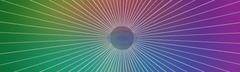
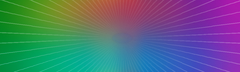
Refine SS badge rays and saturation

diff --git a/app/style.css b/app/style.css
@@ -1499,8 +1499,8 @@ button.ghost {
   text-shadow: 0 1px 1px rgba(0, 0, 0, 0.25);
   background-color: #5d2cc0;
   background-image:
-    linear-gradient(180deg, rgba(255, 255, 255, 0.34) 0%, rgba(255, 255, 255, 0.07) 22%, rgba(0, 0, 0, 0) 48%, rgba(0, 0, 0, 0.16) 100%),
-    url("./images/badges/ss-category-badge-bg.png?v=20260504-ssbadge4");
+    linear-gradient(180deg, rgba(255, 255, 255, 0.24) 0%, rgba(255, 255, 255, 0.03) 22%, rgba(0, 0, 0, 0) 48%, rgba(0, 0, 0, 0.14) 100%),
+    url("./images/badges/ss-category-badge-bg.png?v=20260504-ssbadge6");
   background-position: center;
   background-repeat: no-repeat;
   background-size: 100% 100%;

diff --git a/app/myteam.html b/app/myteam.html
@@ -9,7 +9,7 @@
   <link rel="icon" type="image/png" sizes="32x32" href="./favicon-32x32.png?v=20260324-013653" />
   <link rel="icon" type="image/png" sizes="16x16" href="./favicon-16x16.png?v=20260324-013653" />
   <link rel="shortcut icon" href="./favicon.ico?v=20260324-013653" />
-  <link rel="stylesheet" href="./style.css?v=20260504-ssbadge5" />
+  <link rel="stylesheet" href="./style.css?v=20260504-ssbadge6" />
 </head>
 <body class="myteam-page">
   <main class="container">

diff --git a/app/coaches.html b/app/coaches.html
@@ -12,7 +12,7 @@
   <link rel="icon" type="image/png" sizes="32x32" href="./favicon-32x32.png?v=20260324-013653" />
   <link rel="icon" type="image/png" sizes="16x16" href="./favicon-16x16.png?v=20260324-013653" />
   <link rel="shortcut icon" href="./favicon.ico?v=20260324-013653" />
-  <link rel="stylesheet" href="./style.css?v=20260504-ssbadge5" />
+  <link rel="stylesheet" href="./style.css?v=20260504-ssbadge6" />
 </head>
 <body>
   <main class="container">

diff --git a/app/formations.html b/app/formations.html
@@ -12,7 +12,7 @@
   <link rel="icon" type="image/png" sizes="32x32" href="./favicon-32x32.png?v=20260324-013653" />
   <link rel="icon" type="image/png" sizes="16x16" href="./favicon-16x16.png?v=20260324-013653" />
   <link rel="shortcut icon" href="./favicon.ico?v=20260324-013653" />
-  <link rel="stylesheet" href="./style.css?v=20260504-ssbadge5" />
+  <link rel="stylesheet" href="./style.css?v=20260504-ssbadge6" />
 </head>
 <body>
   <main class="container">

diff --git a/app/index.html b/app/index.html
@@ -12,7 +12,7 @@
   <link rel="icon" type="image/png" sizes="32x32" href="./favicon-32x32.png?v=20260324-013653" />
   <link rel="icon" type="image/png" sizes="16x16" href="./favicon-16x16.png?v=20260324-013653" />
   <link rel="shortcut icon" href="./favicon.ico?v=20260324-013653" />
-  <link rel="stylesheet" href="./style.css?v=20260504-ssbadge5" />
+  <link rel="stylesheet" href="./style.css?v=20260504-ssbadge6" />
 </head>
 <body>
   <main class="container">
